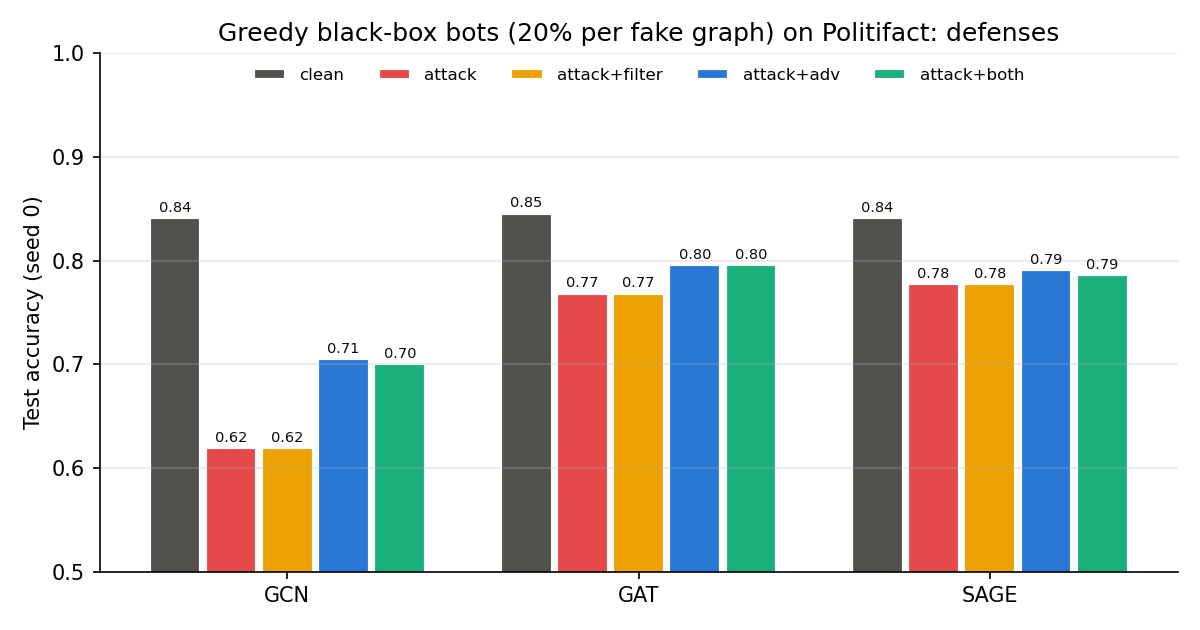
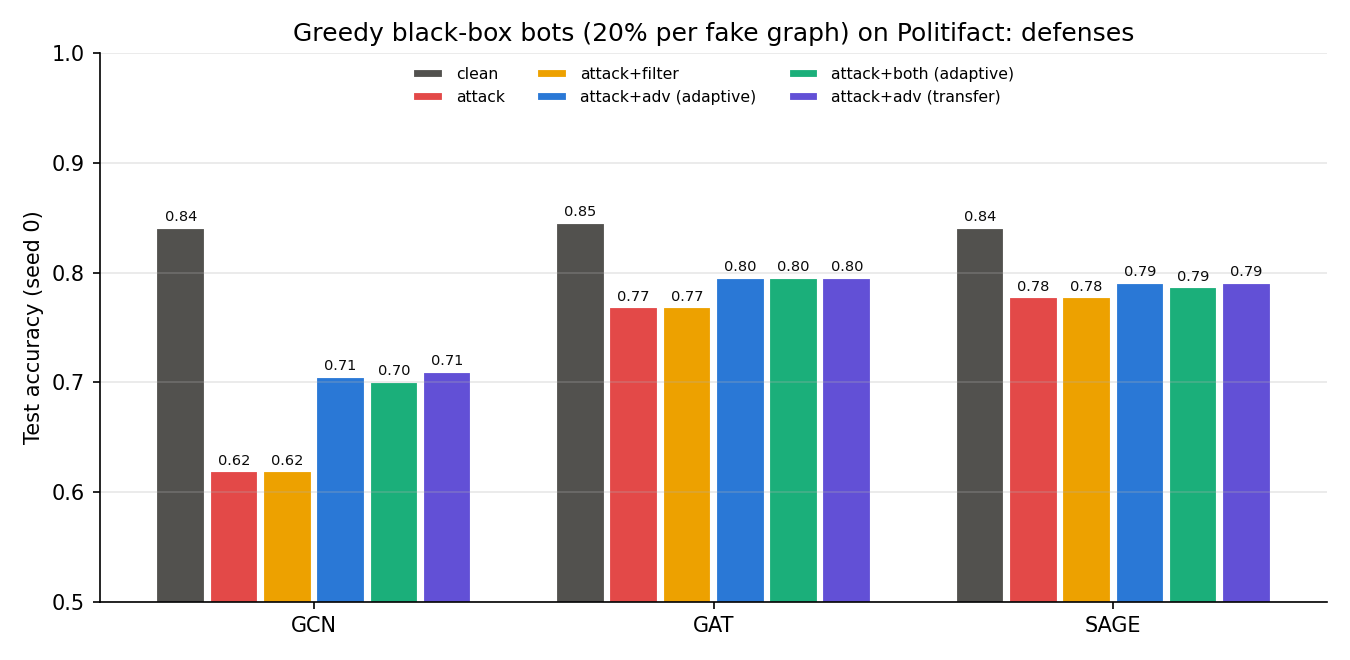
Add adaptive greedy attack check and clarify summary

Changed region(s): [[0.0, 0.0603, 0.9867, 0.9651], [0.185, 0.0302, 0.8942, 0.181]]

diff --git a/src/run_all.py b/src/run_all.py
@@ -227,6 +227,28 @@ def p1g(seed=0):
         pd.DataFrame(rows).to_csv(out(f'greedy_{a}.csv'), index=False)
 
 
+def p1t(seed=0):
+    """Non-adaptive comparison for p1g: greedy bots crafted against the NORMAL model, then fed to the adv-trained
+    model (transfer). p1g's adv rows are adaptive (bots crafted against the adv-trained model itself)."""
+    from attack import Bots, attack_set
+    from defense import BotFilter
+    tr, va, te = splits('content')
+    bots, filt = Bots(tr), BotFilter(tr)
+    adv, rows = adv_models(tr, va, bots), []
+    for a in [args.arch] if args.arch else ARCHS:
+        base, m = train(a, tr, va, seed, f'{DS}_content_{a}_s{seed}'), adv[a, seed]
+        y, clean_pred, _ = predict(m, te)
+        caught = (y == 1) & (clean_pred == 1)
+        for p in [0.10, 0.20]:
+            att = attack_set(te, p, 'greedy', bots, seed, model=base)
+            for d, gs in [('adv', att), ('both', [filt(g) for g in att])]:
+                _, pred, _ = predict(m, gs)
+                rows.append(dict(model=a, defense=d, seed=seed, bot_type='greedy', p=p, **metrics(y, pred),
+                                 asr=float(((pred == 0) & caught).sum() / caught.sum())))
+            print(a, 'transfer', p, rows[-2]['acc'], flush=True)
+    pd.DataFrame(rows).to_csv(out('greedy_transfer.csv'), index=False)
+
+
 def p3(arch='GCN', seed=0, bt='camo', p=0.20, n_agg=30):
     import matplotlib.pyplot as plt
     from attack import Bots, attack_set
@@ -281,21 +303,27 @@ def plot_greedy_defense(p=0.20, seed=0):
     d = pd.read_csv(out('defense_per_seed.csv'))
     clean = d[(d.seed == seed) & (d.p == 0) & (d.defense == 'none') & (d.bot_type == 'naive')].set_index('model')['acc']
     g = gr[gr.p == p].set_index(['model', 'defense'])['acc']
-    archs = [a for a in ARCHS if a in clean.index and (a, 'none') in g.index]
-    conds = [('clean', None), ('attack', 'none'), ('attack+filter', 'filter'), ('attack+adv', 'adv'), ('attack+both', 'both')]
+    conds = [('clean', None), ('attack', 'none'), ('attack+filter', 'filter'), ('attack+adv (adaptive)', 'adv'),
+             ('attack+both (adaptive)', 'both')]
     cols = ['#52514e', '#e34948', '#eda100', '#2a78d6', '#1baf7a']
-    fig, ax = plt.subplots(figsize=(8, 4.2))
+    if osp.exists(out('greedy_transfer.csv')):
+        t = pd.read_csv(out('greedy_transfer.csv'))
+        g = pd.concat([g, t[(t.p == p) & (t.defense == 'adv')].assign(defense='adv_transfer').set_index(['model', 'defense'])['acc']])
+        conds.append(('attack+adv (transfer)', 'adv_transfer')); cols.append('#6250d6')
+    archs = [a for a in ARCHS if a in clean.index and all(k is None or (a, k) in g.index for _, k in conds)]
+    fig, ax = plt.subplots(figsize=(9, 4.4))
     x = np.arange(len(archs))
+    w = 0.8 / len(conds)
     for j, ((name, key), c) in enumerate(zip(conds, cols)):
         v = [clean[a] if key is None else g[a, key] for a in archs]
-        xs = x + (j - 2) * 0.16
-        ax.bar(xs, v, 0.15, color=c, edgecolor='white', linewidth=2, label=name)
+        xs = x + (j - (len(conds) - 1) / 2) * w
+        ax.bar(xs, v, w * 0.95, color=c, edgecolor='white', linewidth=2, label=name)
         for xi, vi in zip(xs, v):
             ax.text(xi, vi + 0.005, f'{vi:.2f}', ha='center', fontsize=7, color='#0b0b0b')
     ax.set(xticks=x, ylim=(0.5, 1.0), ylabel='Test accuracy (seed 0)',
            title=f'Greedy black-box bots ({int(p * 100)}% per fake graph) on {DS.capitalize()}: defenses')
     ax.set_xticklabels(archs)
-    ax.legend(frameon=False, fontsize=8, ncol=5, loc='upper center')
+    ax.legend(frameon=False, fontsize=7.5, ncol=3, loc='upper center')
     ax.spines[['top', 'right']].set_visible(False); ax.grid(axis='y', alpha=.3)
     fig.tight_layout(); fig.savefig(out('defense_bars_greedy.png'), dpi=150); plt.close(fig)
 
@@ -311,6 +339,7 @@ def p4():
 
     d = pd.read_csv(out('defense_per_seed.csv'))
     gr = greedy_df()
+    tr_ = pd.read_csv(out('greedy_transfer.csv')) if osp.exists(out('greedy_transfer.csv')) else None
     agg = d.groupby(['model', 'defense', 'bot_type', 'p'])[['acc', 'f1', 'asr']].agg(['mean', 'std'])
     cell = lambda k, c: fmt(agg.loc[k, (c, 'mean')], agg.loc[k, (c, 'std')])
     rows = []
@@ -327,10 +356,15 @@ def p4():
                     k = (a, dname, bt, p)
                     rows.append(dict(model=a, condition=lab, bot_type=bt, p=p, acc=cell(k, 'acc'), f1=cell(k, 'f1'),
                                      asr=cell(k, 'asr'), seeds=3))
-        if gr is not None:
+        if gr is not None:  # p1g: bots crafted against the model being evaluated, so adv rows are adaptive
             for r in gr[gr.model == a].itertuples():
-                lab = {'none': 'attack', 'filter': 'attack + bot filter', 'adv': 'attack + adv training',
-                       'both': 'attack + filter + adv'}[r.defense]
+                lab = {'none': 'attack', 'filter': 'attack + bot filter', 'adv': 'attack + adv training (adaptive)',
+                       'both': 'attack + filter + adv (adaptive)'}[r.defense]
+                rows.append(dict(model=a, condition=lab, bot_type='greedy', p=r.p, acc=f'{r.acc:.3f}', f1=f'{r.f1:.3f}',
+                                 asr=f'{r.asr:.3f}', seeds=1))
+        if tr_ is not None:  # p1t: bots crafted against the normal model, evaluated on the adv-trained model
+            for r in tr_[tr_.model == a].itertuples():
+                lab = {'adv': 'attack + adv training (transfer)', 'both': 'attack + filter + adv (transfer)'}[r.defense]
                 rows.append(dict(model=a, condition=lab, bot_type='greedy', p=r.p, acc=f'{r.acc:.3f}', f1=f'{r.f1:.3f}',
                                  asr=f'{r.asr:.3f}', seeds=1))
     rep = pd.DataFrame(rows)
@@ -346,13 +380,25 @@ def p4():
         g0 = gr[gr.defense == 'none'][['model', 'p', 'acc', 'f1', 'asr', 'bots_removed_by_filter']].round(3)
         s += ['\nGreedy black-box bots (optional, **seed 0 only**, 30 candidates per bot slot):\n', md(g0)]
 
-    s += ['\n## 3. Defenses: accuracy at p = 0.10 and 0.20 (3 seeds; greedy = seed 0)\n']
+    s += ['\n## 3. Defenses: accuracy at p = 0.10 and 0.20 (naive / camouflaged bots, 3 seeds, mean ± std)\n']
     for p in [0.10, 0.20]:
-        t = rep[(rep.p == p) | (rep.condition == 'normal (clean test)')]
+        t = rep[(rep.p == p) & (rep.bot_type != 'greedy')]
         t = t.pivot_table(index=['model', 'bot_type'], columns='condition', values='acc', aggfunc='first', sort=False)
         t = t.reindex(columns=['attack', 'attack + bot filter', 'attack + adv training', 'attack + filter + adv']).dropna(how='all')
         s += [f'\n**p = {p}**\n', md(t.reset_index())]
-    s += ['\nClean accuracy with each defense switched on (cost of the defense when there is no attack):\n',
+    if gr is not None:
+        t = rep[rep.bot_type == 'greedy'].pivot_table(index=['model', 'p'], columns='condition', values='acc',
+                                                       aggfunc='first', sort=False)
+        s += ['\n**Greedy black-box bots (seed 0 only).** *Adaptive* = greedy bots re-crafted by querying the '
+              'adversarially trained model itself (the attacker knows the defended model). *Transfer* = the bots '
+              'crafted against the normal model, fed unchanged to the adversarially trained model. The 0.62 → 0.71 '
+              'GCN result quoted in the findings is the adaptive one. – = not run.\n',
+              md(t.reset_index().astype(object).fillna('–'))]
+    sd = d[(d.p == 0) & (d.bot_type == 'naive') & (d.seed == 0)].set_index(['model', 'defense'])['acc']
+    s += ['\nClean accuracy with each defense switched on (cost of the defense when there is no attack). '
+          '**All values are 3-seed means ± std** (seeds 0, 1, 2). Seed 0 alone, which is the model used for the '
+          'greedy attack and the explanations: ' +
+          ', '.join(f'{a} normal {sd[a, "none"]:.3f} / adv-trained {sd[a, "adv"]:.3f}' for a in ARCHS) + '.\n',
           md(rep[rep.p == 0][['model', 'condition', 'acc', 'f1']])]
     s += ['\nBot filter diagnostics (thresholds learned on clean training users only):\n',
           md(pd.read_csv(out('filter_diagnostics.csv')).round(4))]
@@ -360,7 +406,13 @@ def p4():
         e = pd.read_csv(out('explain_top10_bots.csv'), header=[0, 1], index_col=0).round(3)
         e.columns = [f'{a} ({b})' for a, b in e.columns]
         s += ['\n## 4. Explainability: share of bots among the 10 most important nodes (GNNExplainer, GCN seed 0, '
-              'camouflaged bots p = 0.20, first 30 fake test graphs)\n', md(e.reset_index())]
+              'camouflaged bots p = 0.20, first 30 fake test graphs)\n',
+              'Bot type: **camouflaged** (a real-news training user\'s full feature vector + Gaussian noise, σ = 0.01). '
+              'Chance level (`bot_fraction_root_neighbours`): every bot is attached directly to the root, so for each '
+              'graph we take the share of bots among the root\'s direct (1-hop) neighbours, then average over the 30 '
+              'graphs. This is the bot share expected in the top-10 if the explainer picked root neighbours at random. '
+              'The share of bots among *all* nodes (`bot_fraction`) is lower and would overstate the effect.\n',
+              md(e.reset_index())]
     if osp.exists(out('findings.md')):
         s += ['\n' + open(out('findings.md'), encoding='utf-8').read()]
     open(out('results_summary.md'), 'w', encoding='utf-8').write('\n'.join(s) + '\n')

diff --git a/results/results_summary.md b/results/results_summary.md
@@ -47,7 +47,7 @@ Greedy black-box bots (optional, **seed 0 only**, 30 candidates per bot slot):
 | SAGE    | 0.1  | 0.81  | 0.809 | 0.067 |                    0.003 |
 | SAGE    | 0.2  | 0.778 | 0.778 | 0.133 |                    0.003 |
 
-## 3. Defenses: accuracy at p = 0.10 and 0.20 (3 seeds; greedy = seed 0)
+## 3. Defenses: accuracy at p = 0.10 and 0.20 (naive / camouflaged bots, 3 seeds, mean ± std)
 
 
 **p = 0.1**
@@ -56,13 +56,10 @@ Greedy black-box bots (optional, **seed 0 only**, 30 candidates per bot slot):
 |:--------|:-----------|:--------------|:----------------------|:------------------------|:------------------------|
 | GCN     | naive      | 0.851 ± 0.005 | 0.846 ± 0.005         | 0.811 ± 0.038           | 0.805 ± 0.033           |
 | GCN     | camo       | 0.840 ± 0.003 | 0.837 ± 0.005         | 0.799 ± 0.028           | 0.801 ± 0.030           |
-| GCN     | greedy     | 0.769         | 0.760                 | 0.751                   | 0.751                   |
 | GAT     | naive      | 0.860 ± 0.020 | 0.860 ± 0.020         | 0.855 ± 0.016           | 0.854 ± 0.011           |
 | GAT     | camo       | 0.855 ± 0.020 | 0.855 ± 0.020         | 0.852 ± 0.011           | 0.852 ± 0.011           |
-| GAT     | greedy     | 0.796         | 0.792                 | 0.801                   | 0.796                   |
 | SAGE    | naive      | 0.845 ± 0.014 | 0.843 ± 0.011         | 0.849 ± 0.011           | 0.848 ± 0.011           |
 | SAGE    | camo       | 0.843 ± 0.011 | 0.842 ± 0.009         | 0.849 ± 0.011           | 0.848 ± 0.009           |
-| SAGE    | greedy     | 0.810         | 0.805                 | 0.814                   | 0.810                   |
 
 **p = 0.2**
 
@@ -70,15 +67,26 @@ Greedy black-box bots (optional, **seed 0 only**, 30 candidates per bot slot):
 |:--------|:-----------|:--------------|:----------------------|:------------------------|:------------------------|
 | GCN     | naive      | 0.857 ± 0.003 | 0.846 ± 0.005         | 0.811 ± 0.037           | 0.805 ± 0.033           |
 | GCN     | camo       | 0.825 ± 0.009 | 0.822 ± 0.011         | 0.795 ± 0.022           | 0.795 ± 0.022           |
-| GCN     | greedy     | 0.620         | 0.620                 | 0.706                   | 0.701                   |
 | GAT     | naive      | 0.860 ± 0.020 | 0.860 ± 0.020         | 0.858 ± 0.011           | 0.854 ± 0.011           |
 | GAT     | camo       | 0.852 ± 0.027 | 0.852 ± 0.027         | 0.854 ± 0.016           | 0.854 ± 0.016           |
-| GAT     | greedy     | 0.769         | 0.769                 | 0.796                   | 0.796                   |
 | SAGE    | naive      | 0.843 ± 0.011 | 0.843 ± 0.011         | 0.848 ± 0.009           | 0.848 ± 0.011           |
 | SAGE    | camo       | 0.842 ± 0.014 | 0.842 ± 0.014         | 0.843 ± 0.010           | 0.843 ± 0.010           |
-| SAGE    | greedy     | 0.778         | 0.778                 | 0.792                   | 0.787                   |
 
-Clean accuracy with each defense switched on (cost of the defense when there is no attack):
+**Greedy black-box bots (seed 0 only).** *Adaptive* = greedy bots re-crafted by querying the adversarially trained model itself (the attacker knows the defended model). *Transfer* = the bots crafted against the normal model, fed unchanged to the adversarially trained model. The 0.62 → 0.71 GCN result quoted in the findings is the adaptive one. – = not run.
+
+| model   |    p |   attack |   attack + bot filter | attack + adv training (adaptive)   | attack + filter + adv (adaptive)   | attack + adv training (transfer)   | attack + filter + adv (transfer)   |
+|:--------|-----:|---------:|----------------------:|:-----------------------------------|:-----------------------------------|:-----------------------------------|:-----------------------------------|
+| GCN     | 0.05 |    0.814 |                 0.814 | –                                  | –                                  | –                                  | –                                  |
+| GCN     | 0.1  |    0.769 |                 0.76  | 0.751                              | 0.751                              | 0.751                              | 0.751                              |
+| GCN     | 0.2  |    0.62  |                 0.62  | 0.706                              | 0.701                              | 0.710                              | 0.710                              |
+| GAT     | 0.05 |    0.81  |                 0.805 | –                                  | –                                  | –                                  | –                                  |
+| GAT     | 0.1  |    0.796 |                 0.792 | 0.801                              | 0.796                              | 0.814                              | 0.810                              |
+| GAT     | 0.2  |    0.769 |                 0.769 | 0.796                              | 0.796                              | 0.796                              | 0.796                              |
+| SAGE    | 0.05 |    0.824 |                 0.819 | –                                  | –                                  | –                                  | –                                  |
+| SAGE    | 0.1  |    0.81  |                 0.805 | 0.814                              | 0.810                              | 0.814                              | 0.810                              |
+| SAGE    | 0.2  |    0.778 |                 0.778 | 0.792                              | 0.787                              | 0.792                              | 0.792                              |
+
+Clean accuracy with each defense switched on (cost of the defense when there is no attack). **All values are 3-seed means ± std** (seeds 0, 1, 2). Seed 0 alone, which is the model used for the greedy attack and the explanations: GCN normal 0.842 / adv-trained 0.769, GAT normal 0.846 / adv-trained 0.855, SAGE normal 0.842 / adv-trained 0.837.
 
 | model   | condition            | acc           | f1            |
 |:--------|:---------------------|:--------------|:--------------|
@@ -110,6 +118,8 @@ Bot filter diagnostics (thresholds learned on clean training users only):
 
 ## 4. Explainability: share of bots among the 10 most important nodes (GNNExplainer, GCN seed 0, camouflaged bots p = 0.20, first 30 fake test graphs)
 
+Bot type: **camouflaged** (a real-news training user's full feature vector + Gaussian noise, σ = 0.01). Chance level (`bot_fraction_root_neighbours`): every bot is attached directly to the root, so for each graph we take the share of bots among the root's direct (1-hop) neighbours, then average over the 30 graphs. This is the bot share expected in the top-10 if the explainer picked root neighbours at random. The share of bots among *all* nodes (`bot_fraction`) is lower and would overstate the effect.
+
 | model       |   bot_fraction (mean) |   bot_fraction (std) |   bot_fraction_root_neighbours (mean) |   bot_fraction_root_neighbours (std) |   top10_bot_share (mean) |   top10_bot_share (std) |
 |:------------|----------------------:|---------------------:|--------------------------------------:|-------------------------------------:|-------------------------:|------------------------:|
 | normal      |                 0.165 |                 0.01 |                                 0.305 |                                 0.16 |                    0.458 |                   0.28  |
@@ -132,11 +142,13 @@ Bot filter diagnostics (thresholds learned on clean training users only):
   - It costs almost nothing on clean data: 0.37 % of genuine test users removed, and clean accuracy unchanged.
   - It does not help against bots that copy real profiles.
 - **Adversarial training is the only defense that helps against greedy bots, and it costs clean accuracy for GCN.**
-  - At 20 % greedy bots (re-attacked against the defended model): GCN 0.620 → 0.706 (attack success rate 50.5 % → 13.5 %), GAT 0.769 → 0.796, SAGE 0.778 → 0.792.
-  - But GCN's clean accuracy drops from 0.846 to 0.804 (3-seed mean; seed 0 alone drops 0.842 → 0.769).
+  - At 20 % greedy bots, **adaptive** (greedy bots re-crafted by querying the adversarially trained model itself; seed 0): GCN 0.620 → 0.706 (attack success rate 50.5 % → 13.5 %), GAT 0.769 → 0.796, SAGE 0.778 → 0.792.
+  - **Transfer** (the bots crafted against the normal model, reused on the adversarially trained model) gives almost the same: GCN 0.710, GAT 0.796, SAGE 0.792. Re-crafting against the defended model barely helps the attacker.
+  - But GCN's clean accuracy drops from 0.846 to 0.804 (**3-seed mean**). For **seed 0**, which is the model in the greedy numbers above, it drops from 0.842 to 0.769. So against its own clean accuracy, the seed-0 adversarially trained GCN loses 6 points under the 20 % greedy attack (0.769 → 0.706), versus 22 points for the normal GCN (0.842 → 0.620).
   - Against random bots it brings no gain. GAT and SAGE keep their clean accuracy.
 - **Explanations show the model is distracted by bots.**
-  - Under 20 % camouflaged bots, bots are 45.8 % of the normal GCN's 10 most important nodes. The chance level is 30.5 %, which is the bot share among the root's direct neighbours, where all bots sit.
+  - Under 20 % **camouflaged** bots (GCN seed 0, first 30 fake test graphs), bots are 45.8 % of the normal GCN's 10 most important nodes.
+  - The chance level is 30.5 %. For each graph we take the share of bots among the root's direct (1-hop) neighbours, where every bot is attached, then average over the 30 graphs.
   - After adversarial training the share is 25.8 %, roughly chance.
   - The spread across graphs is large (std 0.24–0.28 over 30 graphs).
 

diff --git a/results/findings.md b/results/findings.md
@@ -15,11 +15,13 @@
   - It costs almost nothing on clean data: 0.37 % of genuine test users removed, and clean accuracy unchanged.
   - It does not help against bots that copy real profiles.
 - **Adversarial training is the only defense that helps against greedy bots, and it costs clean accuracy for GCN.**
-  - At 20 % greedy bots (re-attacked against the defended model): GCN 0.620 → 0.706 (attack success rate 50.5 % → 13.5 %), GAT 0.769 → 0.796, SAGE 0.778 → 0.792.
-  - But GCN's clean accuracy drops from 0.846 to 0.804 (3-seed mean; seed 0 alone drops 0.842 → 0.769).
+  - At 20 % greedy bots, **adaptive** (greedy bots re-crafted by querying the adversarially trained model itself; seed 0): GCN 0.620 → 0.706 (attack success rate 50.5 % → 13.5 %), GAT 0.769 → 0.796, SAGE 0.778 → 0.792.
+  - **Transfer** (the bots crafted against the normal model, reused on the adversarially trained model) gives almost the same: GCN 0.710, GAT 0.796, SAGE 0.792. Re-crafting against the defended model barely helps the attacker.
+  - But GCN's clean accuracy drops from 0.846 to 0.804 (**3-seed mean**). For **seed 0**, which is the model in the greedy numbers above, it drops from 0.842 to 0.769. So against its own clean accuracy, the seed-0 adversarially trained GCN loses 6 points under the 20 % greedy attack (0.769 → 0.706), versus 22 points for the normal GCN (0.842 → 0.620).
   - Against random bots it brings no gain. GAT and SAGE keep their clean accuracy.
 - **Explanations show the model is distracted by bots.**
-  - Under 20 % camouflaged bots, bots are 45.8 % of the normal GCN's 10 most important nodes. The chance level is 30.5 %, which is the bot share among the root's direct neighbours, where all bots sit.
+  - Under 20 % **camouflaged** bots (GCN seed 0, first 30 fake test graphs), bots are 45.8 % of the normal GCN's 10 most important nodes.
+  - The chance level is 30.5 %. For each graph we take the share of bots among the root's direct (1-hop) neighbours, where every bot is attached, then average over the 30 graphs.
   - After adversarial training the share is 25.8 %, roughly chance.
   - The spread across graphs is large (std 0.24–0.28 over 30 graphs).
 

diff --git a/README.md b/README.md
@@ -25,11 +25,12 @@ pip install torch torch_geometric networkx matplotlib pandas scikit-learn tabula
 python src/run_all.py                 # check p0 p1 p2 p3 p4 on PolitiFact (~5 min on CPU once models are cached)
 python src/run_all.py p1g             # optional greedy attack (~10 min per model on CPU)
 python src/run_all.py p1g --arch GCN  # ...or one model per process, to parallelise
+python src/run_all.py p1t             # optional: greedy bots crafted on the normal model, fed to the adv-trained one (transfer)
 python src/run_all.py p4              # rebuild results_summary.md / robustness_report.csv / attack_curve.png
 python src/run_all.py check p0 p1 p2 p3 p4 --dataset gossipcop   # outputs prefixed gossipcop_
 ```
 
-Stages: `check` (data sanity), `p0` (baselines), `p1` (attack), `p2` (defenses), `p1g` (greedy attack), `p3` (explanations), `p4` (summary).
+Stages: `check` (data sanity), `p0` (baselines), `p1` (attack), `p2` (defenses), `p1g` (greedy attack, adaptive against each evaluated model), `p1t` (greedy transfer check), `p3` (explanations), `p4` (summary).
 Trained weights are cached in `results/models/`. Delete a file there to retrain that model.
 `run_all.ipynb` runs the same pipeline in Colab.
 
